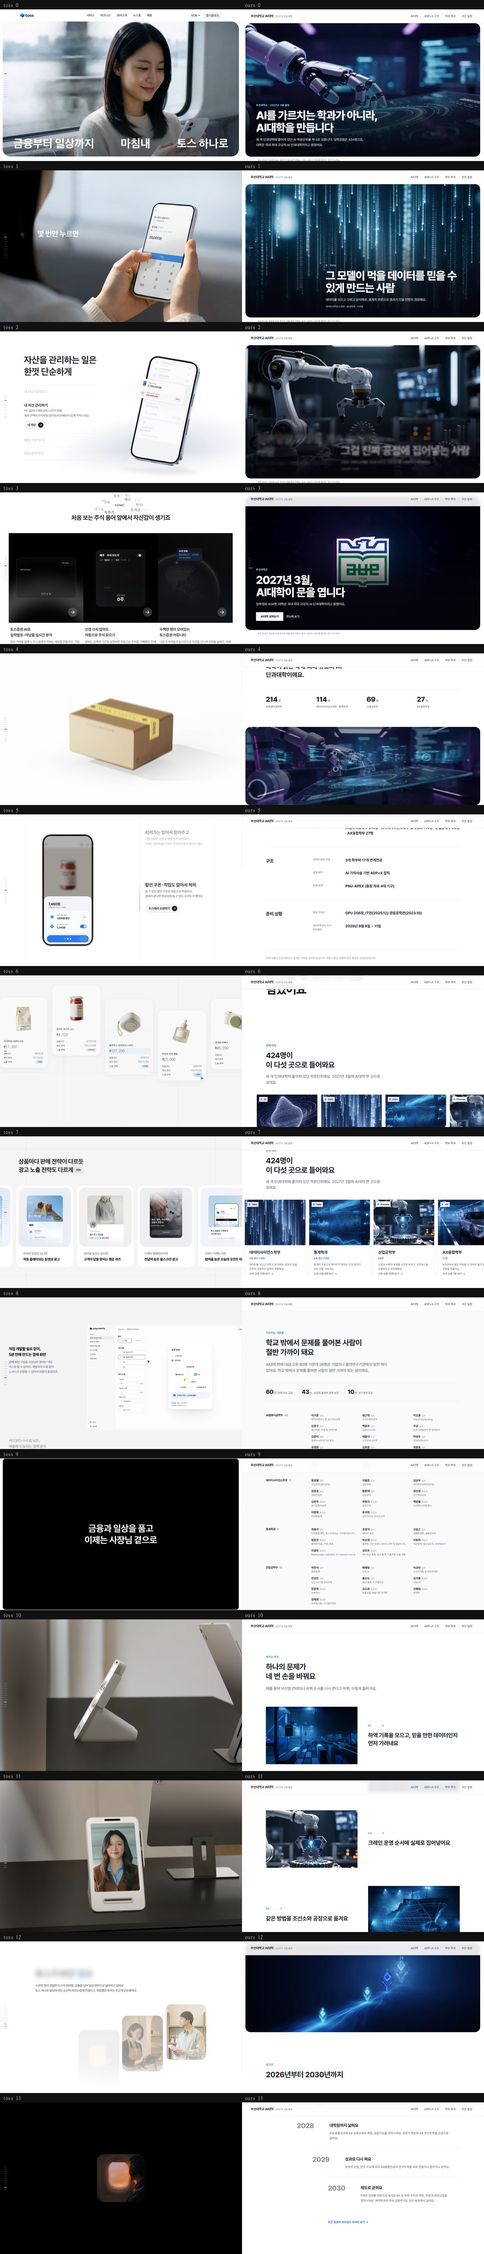
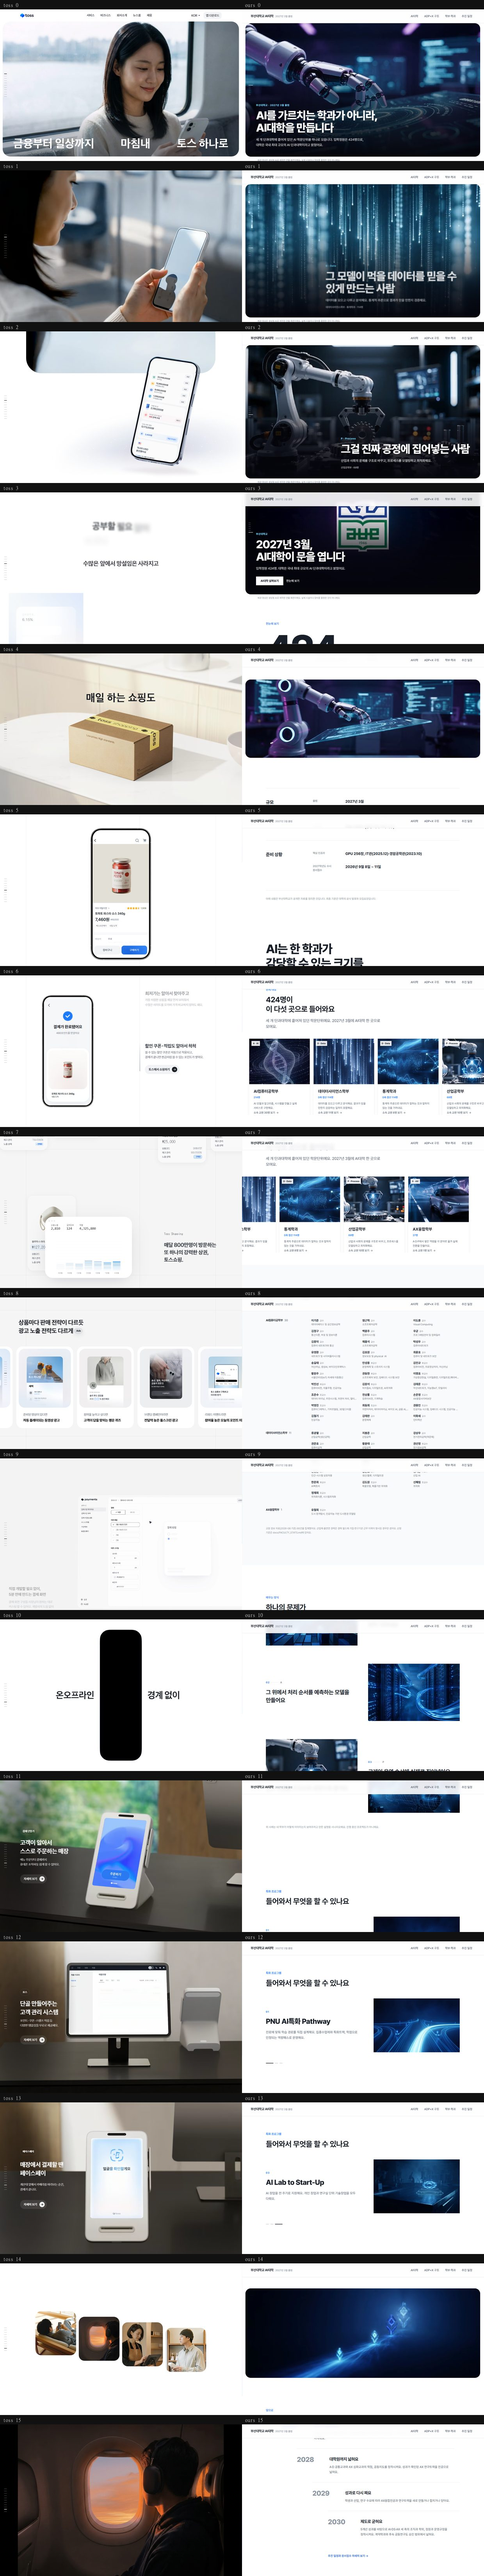
16회차 기록: 한 번에 하나 무대와 히어로 비중 20.6%
Claude-Session: https://claude.ai/code/session_01DneFDYxx25DjwNJdj8uLH7

diff --git a/docs/GAP_LOG.md b/docs/GAP_LOG.md
@@ -539,3 +539,42 @@ toss 히어로는 8~10% 다.
 
 **남은 것**: 홈에 아직 없는 내용 — 특화 프로그램(PNU AI특화 Pathway / AX1000 /
 AI Lab to Start-Up), 운영 체계(PNU-APEX), 협력 기업. 셋 다 `/ai-college` 안쪽이다.
+
+## 16회차 — 길이는 맞췄는데 화면당 밀도가 달랐다
+
+**측정**: 15회차에 20화면으로 toss 와 분량이 같아졌다. 그런데 14단계로 나란히
+찍어보니 **toss 는 열넷 중 여덟 화면이 대상 하나만 크게 보여준다** — 폰 하나,
+택배상자 하나, POS 단말 하나, 태블릿 하나. 곁들이는 문구는 한 덩이뿐이고 목록도
+격자도 없다.
+
+우리는 표에 여덟 줄, 레일에 카드 다섯, 이름 벽에 예순 명을 편다. **한 화면에
+여러 개를 펴는 것이 기본값이었다.**
+
+그리고 「들어와서 무엇을 할 수 있나요」가 `/ai-college` 안쪽에만 있었다. 진학을
+생각하는 사람에게는 정원이나 교원보다 이쪽이 먼저 궁금하다.
+
+**고침**: 두 가지를 한 절로 푼다. 특화 프로그램 셋을 **목록으로 늘어놓지 않고**
+고정 무대에서 한 번에 하나씩 갈아 끼운다. 항목마다 화면 하나를 온전히 갖는다.
+
+toss 는 절마다 화면을 새로 쌓지만 우리는 무대를 고정했다. 셋이 나란한 프로그램이라
+자리를 옮기면 비교가 끊긴다.
+
+**에셋** — 각 프로그램이 말하는 것을 그대로 그렸다.
+
+| 슬러그 | 그림 | 문구 |
+|---|---|---|
+| `prog_pathway` | 갈라졌다 모이는 경로들, 그중 하나가 밝다 | 학습 경로를 직접 설계해요 |
+| `prog_funnel` | 위는 넓게 흩어지고 아래로 갈수록 좁고 밝아지는 입자 기둥 | 넓게 시작해서 좁고 깊게 |
+| `prog_startup` | 실험대 위로 떠오르는 장치와 빛의 고리 | 연구실 단위 기술창업 |
+
+팔레트 참조판을 물려 전부 200~210° 로 나왔다. 2크레딧 x3 + 10크레딧 x3 = 36.
+
+**재측정**: 실측 히어로 **24.7% → 20.6%**. 총 높이 16,195 → 19,395px
+(20화면 → 24화면). 히어로 뒤 자리가 열 → 열셋.
+
+히어로 비중 추이: 40.9% → 33.1% → 28.6% → 24.7% → **20.6%**
+
+**힉스필드 대기열**: 미완료 없음. 잔액 ~599.
+
+**남은 것**: 홈에 아직 없는 내용 — 운영 체계(PNU-APEX), 협력 기업(NAVER Cloud /
+Google / AWS / LG U+ / upstage). 둘 다 `/ai-college` 안쪽이다.
